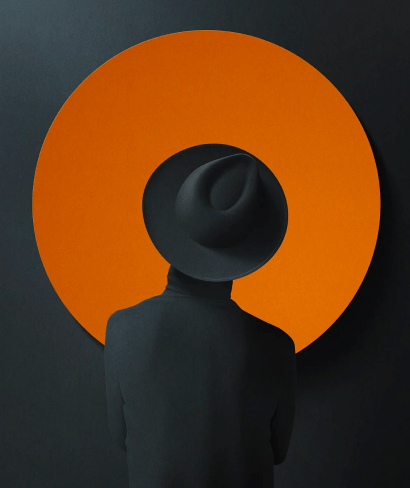
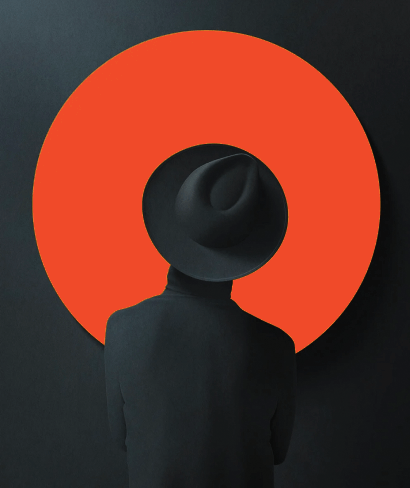
update colors

diff --git a/assets/css/style.css b/assets/css/style.css
@@ -648,7 +648,7 @@ select:visited {
   animation-fill-mode: both;
   -webkit-animation-name: slideInDown;
   animation-name: slideInDown;
-  background-color: #171717;
+  background-color: #021229;
   -webkit-animation-timing-function: ease;
   animation-timing-function: ease;
   -webkit-transition: 0.3s all ease-in-out;
@@ -772,7 +772,7 @@ select:visited {
   width: 70px;
   height: 70px;
   border-radius: 100%;
-  background-color: rgba(255, 255, 255, 0.1);
+  background-color: #021229;
 }
 
 .ori-header-login-signup button {
@@ -1896,7 +1896,7 @@ select:visited {
   margin-bottom: 0;
 }
 .ori-slider-wrap-1 .slick-dots li.slick-active {
-  background-color: rgba(255, 255, 255, 0.1);
+  background-color: #021229;
 }
 
 /*---------------------------------------------------- */
@@ -1908,7 +1908,7 @@ select:visited {
 
 .ori-service-wrapper-1 {
   padding: 130px 0px 85px;
-  background-color: #171717;
+  background-color: #021229;
 }
 
 .ori-service-content-1 {
@@ -11434,11 +11434,11 @@ Font load
 /*----------------------------------------------------*/
 .ori-footer-section {
   padding-top: 60px;
-  background-color: #171717;
+  background-color: #021229;
 }
 .ori-footer-section.footer-style-two {
   padding-top: 120px;
-  background-color: #171717;
+  background-color: #021229;
 }
 .ori-footer-section.footer-style-two .ori-copyright-text {
   color: #fff;

diff --git a/assets/css/global.css b/assets/css/global.css
@@ -8,7 +8,7 @@ body {
 :root {
 	
 	/* #ff6b61 in decimal RGB */
-  --base-color-1: #EF4A2B;
+  --base-color-1: #f04a2b;
   --base-color-2: #FFE43B;
   --base-color-3: #7486E5;
   --base-color-4: #63DAD9;
